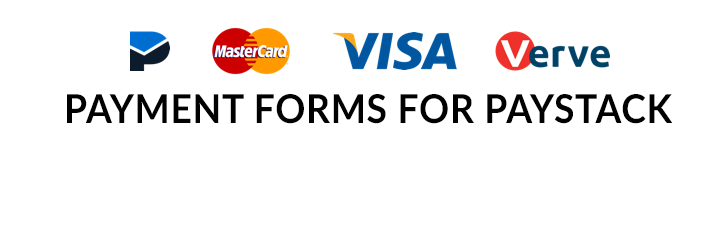
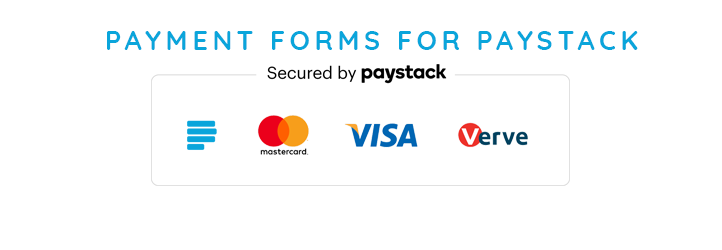
v2.0.3

Changed region(s): [[0.0914, 0.364, 0.9446, 0.644], [0.1219, 0.112, 0.8837, 0.336], [0.2133, 0.728, 0.7922, 0.756]]

diff --git a/public/css/pff-paystack-style.css b/public/css/pff-paystack-style.css
@@ -7,7 +7,7 @@
 /*=================================================================*/
 .paystack-cardlogos {
 	width:300px !important;
-	height:36px !important;
+	height:87px !important;
 }
 
 /* Default

diff --git a/public/class-paystack-forms-public.php b/public/class-paystack-forms-public.php
@@ -455,6 +455,203 @@ function kkd_pff_paystack_send_receipt($id,$currency,$amount,$name,$email,$code,
 	wp_mail($user_email, $email_subject, $message,$headers);
 
 }
+function kkd_pff_paystack_send_receipt_owner($id,$currency,$amount,$name,$email,$code,$metadata){
+	//  echo date('F j,Y');
+	$user_email = stripslashes($email);
+	$subject = "You just received a payment";
+	$heading = get_post_meta($id, '_heading', true);
+	$sitemessage = get_post_meta($id, '_message', true);
+
+	$email_subject =$subject;
+
+		ob_start();
+	?>
+	<!DOCTYPE html PUBLIC "-//W3C//DTD XHTML 1.0 Strict//EN" "http://www.w3.org/TR/xhtml1/DTD/xhtml1-strict.dtd">
+	<html>
+	<head>
+	<meta http-equiv="Content-Type" content="text/html; charset=utf-8">
+	<meta name="viewport" content="width=device-width, initial-scale=1.0">
+	<meta http-equiv="X-UA-Compatible" content="IE=edge">
+	<meta name="format-detection" content="telephone=no">
+	<meta name="format-detection" content="date=no">
+	<meta name="format-detection" content="address=no">
+	<meta name="format-detection" content="email=no">
+	<title></title>
+	<link href="http://fonts.googleapis.com/css?family=Noto+Sans:400,700" rel="stylesheet" type="text/css">
+	<style type="text/css">body{Margin:0;padding:0;min-width:100%}a,#outlook a{display:inline-block}a,a span{text-decoration:none}img{line-height:1;outline:0;border:0;text-decoration:none;-ms-interpolation-mode:bicubic;mso-line-height-rule:exactly}table{border-spacing:0;mso-table-lspace:0;mso-table-rspace:0}td{padding:0}.email_summary{display:none;font-size:1px;line-height:1px;max-height:0;max-width:0;opacity:0;overflow:hidden}.font_default,h1,h2,h3,h4,h5,h6,p,a{font-family:Helvetica,Arial,sans-serif}small{font-size:86%;font-weight:normal}.pricing_box_cell small{font-size:74%}.font_default,p{font-size:15px}p{line-height:23px;Margin-top:16px;Margin-bottom:24px}.lead{font-size:19px;line-height:27px;Margin-bottom:16px}.header_cell .column_cell{font-size:20px;font-weight:bold}.header_cell p{margin-bottom:0}h1,h2,h3,h4,h5,h6{Margin-left:0;Margin-right:0;Margin-top:16px;Margin-bottom:8px;padding:0}.line-through{text-decoration:line-through}h1,h2{font-size:26px;line-height:36px;font-weight:bold}.pricing_box h1,.pricing_box h2,.primary_pricing_box h1,.primary_pricing_box h2{line-height:20px;Margin-top:16px;Margin-bottom:0}h3,h4{font-size:22px;line-height:30px;font-weight:bold}h5{font-size:18px;line-height:26px;font-weight:bold}h6{font-size:16px;line-height:24px;font-weight:bold}.primary_btn td,.secondary_btn td{font-size:16px;mso-line-height-rule:exactly}.primary_btn a,.secondary_btn a{font-weight:bold}.email_body{padding:32px 6px;text-align:center}.email_container,.row,.col-1,.col-13,.col-2,.col-3{display:inline-block;width:100%;vertical-align:top;text-align:center}.email_container{width:100%;margin:0 auto}.email_container{max-width:588px}.row,.col-3{max-width:580px}.col-1{max-width:190px}.col-2{max-width:290px}.col-13{max-width:390px}.row{margin:0 auto}.column{width:100%;vertical-align:top}.column_cell{padding:16px;text-align:center;vertical-align:top}.col-bottom-0 .column_cell{padding-bottom:0}.col-top-0 .column_cell{padding-top:0}.email_container,.header_cell,.jumbotron_cell,.content_cell,.footer_cell,.image_responsive{font-size:0!important;text-align:center}.header_cell,.footer_cell{padding-bottom:16px}.header_cell .column_cell,.footer_cell .col-13 .column_cell,.footer_cell .col-1 .column_cell{text-align:left;padding-top:16px}.header_cell img{max-width:156px;height:auto}.footer_cell{text-align:center}.footer_cell p{Margin:16px 0}.invoice_cell .column_cell{text-align:left;padding-top:0;padding-bottom:0}.invoice_cell p{margin-top:8px;margin-bottom:16px}.pricing_box{border-collapse:separate;padding:10px 16px}.primary_pricing_box{border-collapse:separate;padding:18px 16px}.text_quote .column_cell{border-left:4px solid;text-align:left;padding-right:0;padding-top:0;padding-bottom:0}.primary_btn,.secondary_btn{clear:both;margin:0 auto}.primary_btn td,.secondary_btn td{text-align:center;vertical-align:middle;padding:12px 24px}.primary_btn a,.primary_btn span,.secondary_btn a,.secondary_btn span{text-align:center;display:block}.label .font_default{font-size:10px;font-weight:bold;text-transform:uppercase;letter-spacing:2px;padding:3px 7px;white-space:nowrap}.icon_holder,.hruler{width:62px;margin-left:auto;margin-right:auto;clear:both}.icon_holder{width:48px}.hspace,.hruler_cell{font-size:0;height:8px;overflow:hidden}.hruler_cell{height:4px;line-height:4px}.icon_cell{font-size:0;line-height:1;padding:8px;height:48px}.product_row{padding:0 0 16px}.product_row .column_cell{padding:16px 16px 0}.product_row .col-13 .column_cell{text-align:left}.product_row h6{Margin-top:0}.product_row p{Margin-top:8px;Margin-bottom:8px}.order_total_right .column_cell{text-align:right}.order_total_left .column_cell{text-align:left}.order_total p{Margin:8px 0}.order_total h2{Margin:8px 0}.image_responsive img{display:block;width:100%;height:auto;max-width:580px;margin-left:auto;margin-right:auto}body,.email_body,.header_cell,.content_cell,.footer_cell{background-color:#fff}.secondary_btn td,.icon_primary .icon_cell,.primary_pricing_box{background-color:#2f68b4}.jumbotron_cell,.pricing_box{background-color:#f2f2f5}.primary_btn td,.label .font_default{background-color:#22aaa0}.icon_secondary .icon_cell{background-color:#e1e3e7}.label_1 .font_default{background-color:#62a9dd}.label_2 .font_default{background-color:#8965ad}.label_3 .font_default{background-color:#df6164}.primary_btn a,.primary_btn span,.secondary_btn a,.secondary_btn span,.label .font_default,.primary_pricing_box,.primary_pricing_box h1,.primary_pricing_box small{color:#fff}h2,h4,h5,h6{color:#383d42}.column_cell{color:#888}.header_cell .column_cell,.header_cell a,.header_cell a span,h1,h3,a,a span,.text-secondary,.column_cell .text-secondary,.content_cell h2 .text-secondary{color:#2f68b4}.footer_cell a,.footer_cell a span{color:#7a7a7a}.text-muted,.footer_cell .column_cell,.content h4 span,.content h3 span{color:#b3b3b5}.header_cell,.footer_cell{border-top:4px solid;border-bottom:4px solid}.header_cell,.footer_cell,.jumbotron_cell,.content_cell{border-left:4px solid;border-right:4px solid}.footer_cell,.product_row,.order_total{border-top:1px solid}.header_cell,.footer_cell,.jumbotron_cell,.content_cell,.product_row,.order_total,.icon_secondary .icon_cell,.footer_cell,.content .product_row,.content .order_total,.pricing_box,.text_quote .column_cell{border-color:#d8dde4}@media screen{h1,h2,h3,h4,h5,h6,p,a,.font_default{font-family:"Noto Sans",Helvetica,Arial,sans-serif!important}.primary_btn td,.secondary_btn td{padding:0!important}.primary_btn a,.secondary_btn a{padding:12px 24px!important}}@media screen and (min-width:631px) and (max-width:769px){.col-1,.col-2,.col-3,.col-13{float:left!important}.col-1{width:200px!important}.col-2{width:300px!important}}@media screen and (max-width:630px){.jumbotron_cell{background-size:cover!important}.row,.col-1,.col-13,.col-2,.col-3{max-width:100%!important}}</style>
+	</head>
+	<body leftmargin="0" marginwidth="0" topmargin="0" marginheight="0" offset="0" style="margin:0;padding:0;min-width:100%;background-color:#fff">
+	<div class="email_body" style="padding:32px 6px;text-align:center;background-color:#fff">
+	
+	<div class="email_container" style="display:inline-block;width:100%;vertical-align:top;text-align:center;margin:0 auto;max-width:588px;font-size:0!important">
+	<table class="header" width="100%" border="0" cellspacing="0" cellpadding="0" style="border-spacing:0;mso-table-lspace:0;mso-table-rspace:0">
+	<tbody>
+	<tr>
+	<td class="header_cell col-bottom-0" align="center" valign="top" style="padding:0;text-align:center;padding-bottom:16px;border-top:4px solid;border-bottom:0 solid;background-color:#fff;border-left:4px solid;border-right:4px solid;border-color:#d8dde4;font-size:0!important">
+	
+	</td>
+	</tr>
+	</tbody>
+	</table>
+	<table class="content" width="100%" border="0" cellspacing="0" cellpadding="0" style="border-spacing:0;mso-table-lspace:0;mso-table-rspace:0">
+	<tbody>
+	<tr>
+	<td class="content_cell" align="center" valign="top" style="padding:0;text-align:center;background-color:#fff;border-left:4px solid;border-right:4px solid;border-color:#d8dde4;font-size:0!important">
+	
+	<div class="row" style="display:inline-block;width:100%;vertical-align:top;text-align:center;max-width:580px;margin:0 auto">
+	
+	<div class="col-3" style="display:inline-block;width:100%;vertical-align:top;text-align:center;max-width:580px">
+	<table class="column" width="100%" border="0" cellspacing="0" cellpadding="0" style="border-spacing:0;mso-table-lspace:0;mso-table-rspace:0;width:100%;vertical-align:top">
+	<tbody>
+	<tr>
+	<td class="column_cell font_default" align="center" valign="top" style="padding:16px;font-family:Helvetica,Arial,sans-serif;font-size:15px;text-align:center;vertical-align:top;color:#888">
+	<p style="font-family:Helvetica,Arial,sans-serif;font-size:15px;line-height:23px;margin-top:16px;margin-bottom:24px">&nbsp; </p>
+	<h5 style="font-family:Helvetica,Arial,sans-serif;margin-left:0;margin-right:0;margin-top:16px;margin-bottom:8px;padding:0;font-size:18px;line-height:26px;font-weight:bold;color:#383d42">You just received a payment</h5>
+	</td>
+	</tr>
+	</tbody>
+	</table>
+	</div>
+	
+	</div>
+	
+	</td>
+	</tr>
+	</tbody>
+	</table>
+	<table class="jumbotron" width="100%" border="0" cellspacing="0" cellpadding="0" style="border-spacing:0;mso-table-lspace:0;mso-table-rspace:0">
+	<tbody>
+	<tr>
+	<td class="jumbotron_cell invoice_cell" align="center" valign="top" style="padding:0;text-align:center;background-color:#fafafa;font-size:0!important">
+	
+	<div class="row" style="display:inline-block;width:100%;vertical-align:top;text-align:center;max-width:580px;margin:0 auto">
+	
+	<div class="col-3" style="display:inline-block;width:100%;vertical-align:top;text-align:left">
+	<table class="column" width="100%" border="0" cellspacing="0" cellpadding="0" style="border-spacing:0;mso-table-lspace:0;mso-table-rspace:0;width:100%;vertical-align:top">
+	<tbody>
+	<tr>
+	<td class="column_cell font_default" align="center" valign="top" style="padding:16px;font-family:Helvetica,Arial,sans-serif;font-size:15px;text-align:left;vertical-align:top;color:#888;padding-top:0;padding-bottom:0">
+	<table class="label" border="0" cellspacing="0" cellpadding="0" style="border-spacing:0;mso-table-lspace:0;mso-table-rspace:0">
+	<tbody>
+	<tr>
+	<td class="hspace" style="padding:0;font-size:0;height:8px;overflow:hidden">&nbsp;</td>
+	</tr>
+	<tr>
+	<td class="hspace" style="padding:0;font-size:0;height:8px;overflow:hidden">&nbsp;</td>
+	</tr>
+	<tr>
+	<td class="font_default" style="padding:3px 7px;font-family:Helvetica,Arial,sans-serif;font-size:10px;font-weight:bold;text-transform:uppercase;letter-spacing:2px;-webkit-border-radius:2px;border-radius:2px;white-space:nowrap;background-color:#666;color:#fff">Payment Details</td>
+	</tr>
+	</tbody>
+	</table>
+	<p style="font-family:Helvetica,Arial,sans-serif;font-size:15px;line-height:23px;margin-top:8px;margin-bottom:16px">
+		Amount <strong> : <?php echo $currency.' '.number_format($amount); ?></strong><br>
+		Email <strong> :  <?php echo $user_email; ?></strong><br>
+		<?php
+		$new = json_decode($metadata);
+		if (array_key_exists("0", $new)) {
+			foreach ($new as $key => $item) {
+				if ($item->type == 'text') {
+					echo $item->display_name."<strong>  :".$item->value."</strong><br>";
+				}else{
+					echo $item->display_name."<strong>  : <a target='_blank' href='".$item->value."'>link</a></strong><br>";
+				}
+
+			}
+		}else{
+			$text = '';
+			if (count($new) > 0) {
+				foreach ($new as $key => $item) {
+					echo $key."<strong>  :".$item."</strong><br />";
+				}
+			}
+		}
+		?>
+		Transaction code: <strong> <?php echo $code; ?></strong><br>
+	</p>
+	</td>
+	</tr>
+	</tbody>
+	</table>
+	</div>
+	</div>
+	
+	</td>
+	</tr>
+	</tbody>
+	</table>
+	<table class="jumbotron" width="100%" border="0" cellspacing="0" cellpadding="0" style="border-spacing:0;mso-table-lspace:0;mso-table-rspace:0">
+	<tbody>
+	<tr>
+	<td class="jumbotron_cell product_row" align="center" valign="top" style="padding:0 0 16px;text-align:center;background-color:#f2f2f5;border-left:4px solid;border-right:4px solid;border-top:1px solid;border-color:#d8dde4;font-size:0!important">
+	
+	<div class="row" style="display:inline-block;width:100%;vertical-align:top;text-align:center;max-width:580px;margin:0 auto">
+	
+	<div class="col-3" style="display:inline-block;width:100%;vertical-align:top;text-align:center;max-width:580px">
+	<table class="column" width="100%" border="0" cellspacing="0" cellpadding="0" style="border-spacing:0;mso-table-lspace:0;mso-table-rspace:0;width:100%;vertical-align:top">
+	<tbody>
+	<tr>
+	<td class="column_cell font_default" align="center" valign="top" style="padding:16px 16px 0;font-family:Helvetica,Arial,sans-serif;font-size:15px;text-align:center;vertical-align:top;color:#888">
+	<small style="font-size:86%;font-weight:normal"><strong>Notice</strong><br>
+	You're getting this email because someone made a payment of <?php $currency.' '.number_format($amount); ?> to <a href="<?php echo get_bloginfo('url') ?>" style="display:inline-block;text-decoration:none;font-family:Helvetica,Arial,sans-serif;color:#2f68b4"><?php echo get_option( 'blogname' );?></a>.</small>
+	</td>
+	</tr>
+	</tbody>
+	</table>
+	</div>
+	
+	</div>
+	</td>
+	</tr>
+	</tbody>
+	</table>
+	<table class="footer" width="100%" border="0" cellspacing="0" cellpadding="0" style="border-spacing:0;mso-table-lspace:0;mso-table-rspace:0">
+	<tbody>
+	<tr>
+	<td class="footer_cell" align="center" valign="top" style="padding:0;text-align:center;padding-bottom:16px;border-top:1px solid;border-bottom:4px solid;background-color:#fff;border-left:4px solid;border-right:4px solid;border-color:#d8dde4;font-size:0!important">
+	<div class="row" style="display:inline-block;width:100%;vertical-align:top;text-align:center;max-width:580px;margin:0 auto">
+	<div class="col-13 col-bottom-0" style="display:inline-block;width:100%;vertical-align:top;text-align:center;max-width:390px">
+	<table class="column" width="100%" border="0" cellspacing="0" cellpadding="0" style="border-spacing:0;mso-table-lspace:0;mso-table-rspace:0;width:100%;vertical-align:top">
+	<tbody>
+	<tr>
+	<td class="column_cell font_default" align="center" valign="top" style="padding:16px;font-family:Helvetica,Arial,sans-serif;font-size:15px;text-align:left;vertical-align:top;color:#b3b3b5;padding-bottom:0;padding-top:16px">
+	<strong><?php echo get_option( 'blogname' );?></strong><br>
+	</td>
+	</tr>
+	</tbody>
+	</table>
+	</div>
+	<div class="col-1 col-bottom-0" style="display:inline-block;width:100%;vertical-align:top;text-align:center;max-width:190px">
+	<table class="column" width="100%" border="0" cellspacing="0" cellpadding="0" style="border-spacing:0;mso-table-lspace:0;mso-table-rspace:0;width:100%;vertical-align:top">
+	<tbody>
+	<tr>
+	<td class="column_cell font_default" align="center" valign="top" style="padding:16px;font-family:Helvetica,Arial,sans-serif;font-size:15px;text-align:left;vertical-align:top;color:#b3b3b5;padding-bottom:0;padding-top:16px">
+	</td>
+	</tr>
+	</tbody>
+	</table>
+	</div>
+	</div>
+	</td>
+	</tr>
+	</tbody>
+	</table>
+	</div>
+	</div>
+	</body>
+	</html>
+
+	<?php
+
+	$message = ob_get_contents();
+	ob_end_clean();
+	$admin_email = get_option('admin_email');
+	$website = get_option('blogname');
+	$headers = array("From: $website <$admin_email>" . "\r\n");
+	$headers = "From: ".$website."<$admin_email>" . "\r\n";
+	wp_mail($admin_email, $email_subject, $message,$headers);
+
+}
 function kkd_pff_paystack_fetch_plan($code){
 	$mode =  esc_attr( get_option('mode') );
 	if ($mode == 'test') {
@@ -1217,6 +1414,7 @@ function kkd_pff_paystack_confirm_payment() {
 			$decoded = json_decode($payment_array->metadata);
 			$fullname = $decoded[0]->value;
 			kkd_pff_paystack_send_receipt($payment_array->post_id,$currency,$amount_paid,$fullname,$payment_array->email,$paystack_ref,$payment_array->metadata);
+			kkd_pff_paystack_send_receipt_owner($payment_array->post_id,$currency,$amount_paid,$fullname,$payment_array->email,$paystack_ref,$payment_array->metadata);
 
 		}
 

diff --git a/paystack-forms.php b/paystack-forms.php
@@ -3,7 +3,7 @@
 	Plugin Name:	Payment forms for Paystack
 	Plugin URI: 	https://github.com/Kendysond/Wordpress-paystack-forms
 	Description: 	Payment forms for Paystack allows you create forms that will be used to bill clients for goods and services via Paystack.
-	Version: 		2.0.1
+	Version: 		2.0.3
 	Author: 		Douglas Kendyson
 	Author URI: 	http://kendyson.com
 	License:        GPL-2.0+
@@ -15,7 +15,7 @@ if ( ! defined( 'WPINC' ) ) {
 }
 define( 'KKD_PFF_PAYSTACK_PLUGIN_PATH', plugins_url( __FILE__ ) );
 define( 'KKD_PFF_PAYSTACK_MAIN_FILE', __FILE__ );
-define( 'KKD_PFF_PAYSTACK_VERSION', '2.0.0' );
+define( 'KKD_PFF_PAYSTACK_VERSION', '2.0.4' );
 define( 'KKD_PFF_PAYSTACK_TABLE', 'paystack_forms_payments' );
 
 
@@ -149,22 +149,54 @@ function kkd_pff_paystack_shortcode_button_script(){
   <?php
     }
 }
-add_action( 'init', 'kkd_pff_paystack_invoice_url_rewrite' );
-function kkd_pff_paystack_invoice_url_rewrite(){
-    global $wp_rewrite;
-    $plugin_url = plugins_url( 'includes/paystack-invoice.php', __FILE__ );
-		$plugin_url = substr( $plugin_url, strlen( home_url() ) + 1 );
-    $wp_rewrite->non_wp_rules['paystackinvoice$'] = $plugin_url;
-    $wp_rewrite->non_wp_rules['paystackinvoice/$'] = $plugin_url;
-    file_put_contents(ABSPATH.'.htaccess', $wp_rewrite->mod_rewrite_rules() );
+// add_action( 'init', 'kkd_pff_paystack_invoice_url_rewrite' );
+// function kkd_pff_paystack_invoice_url_rewrite(){
+//     global $wp_rewrite;
+//     $plugin_url = plugins_url( 'includes/paystack-invoice.php', __FILE__ );
+// 		$plugin_url = substr( $plugin_url, strlen( home_url() ) + 1 );
+//     $wp_rewrite->non_wp_rules['paystackinvoice$'] = $plugin_url; WP_PLUGIN_URL . '/data-fetcher/list-data.php'
+//     $wp_rewrite->non_wp_rules['paystackinvoice/$'] = $plugin_url;
+//     file_put_contents(ABSPATH.'.htaccess', $wp_rewrite->mod_rewrite_rules() );
+// }
+// add_action( 'init', 'my_rewrite' );
+// function my_rewrite() {
+//     global $wp_rewrite;
+//     add_rewrite_rule('paystackinvoice$', KKD_PFF_PAYSTACK_PLUGIN_PATH. 'includes/paystack-invoice.php', 'top');
+//     add_rewrite_rule('paystackinvoice/$', KKD_PFF_PAYSTACK_PLUGIN_PATH. 'includes/paystack-invoice.php', 'top');
+//     // add_rewrite_rule('paystackinvoice/$', plugins_url( 'includes/paystack-invoice.php', __FILE__ ), 'top');
+//     $wp_rewrite->flush_rules(true);  // This should really be done in a plugin activation
+// }
+
+add_action( 'init', 'kkd_pff_init' );
+function kkd_pff_init() {
+    add_rewrite_rule( '^paystackinvoice$', 'index.php?kkd_pff_stats=true', 'top' );
 }
 
-add_action( 'init', 'kkd_pff_paystack_webhook_url_rewrite' );
-function kkd_pff_paystack_webhook_url_rewrite(){
-    global $wp_rewrite;
-    $plugin_url = plugins_url( 'includes/paystack-webhook.php', __FILE__ );
-    $plugin_url = substr( $plugin_url, strlen( home_url() ) + 1 );
-    $wp_rewrite->non_wp_rules['kkd_wppf_webhoook$'] = $plugin_url;
-    $wp_rewrite->non_wp_rules['kkd_wppf_webhoook/$'] = $plugin_url;
-    file_put_contents(ABSPATH.'.htaccess', $wp_rewrite->mod_rewrite_rules() );
+// But WordPress has a whitelist of variables it allows, so we must put it on that list
+add_action( 'query_vars', 'kkd_pff_query_vars' );
+function kkd_pff_query_vars( $query_vars )
+{
+    $query_vars[] = 'kkd_pff_stats';
+    return $query_vars;
 }
+
+// If this is done, we can access it later
+// This example checks very early in the process:
+// if the variable is set, we include our page and stop execution after it
+add_action( 'parse_request', 'kkd_pff_parse_request' );
+function kkd_pff_parse_request( &$wp )
+{
+    if ( array_key_exists( 'kkd_pff_stats', $wp->query_vars ) ) {
+        include( dirname( __FILE__ ) . '/includes/paystack-invoice.php' );
+        exit();
+    }
+}
+// add_action( 'init', 'kkd_pff_paystack_webhook_url_rewrite' );
+// function kkd_pff_paystack_webhook_url_rewrite(){
+//     global $wp_rewrite;
+//     $plugin_url = plugins_url( 'includes/paystack-webhook.php', __FILE__ );
+//     $plugin_url = substr( $plugin_url, strlen( home_url() ) + 1 );
+//     $wp_rewrite->non_wp_rules['kkd_wppf_webhoook$'] = $plugin_url;
+//     $wp_rewrite->non_wp_rules['kkd_wppf_webhoook/$'] = $plugin_url;
+//     file_put_contents(ABSPATH.'.htaccess', $wp_rewrite->mod_rewrite_rules() );
+// }

diff --git a/includes/paystack-invoice.php b/includes/paystack-invoice.php
@@ -1,5 +1,7 @@
 <?php
-require_once('../../../../wp-load.php');
+// $parse_uri = explode( 'wp-content', $_SERVER['SCRIPT_FILENAME'] );
+// require_once( $parse_uri[0] . 'wp-load.php' );
+require_once(ABSPATH.'wp-load.php');
 
 $code = @$_GET['code'];
 function kkd_format_metadata($data){
